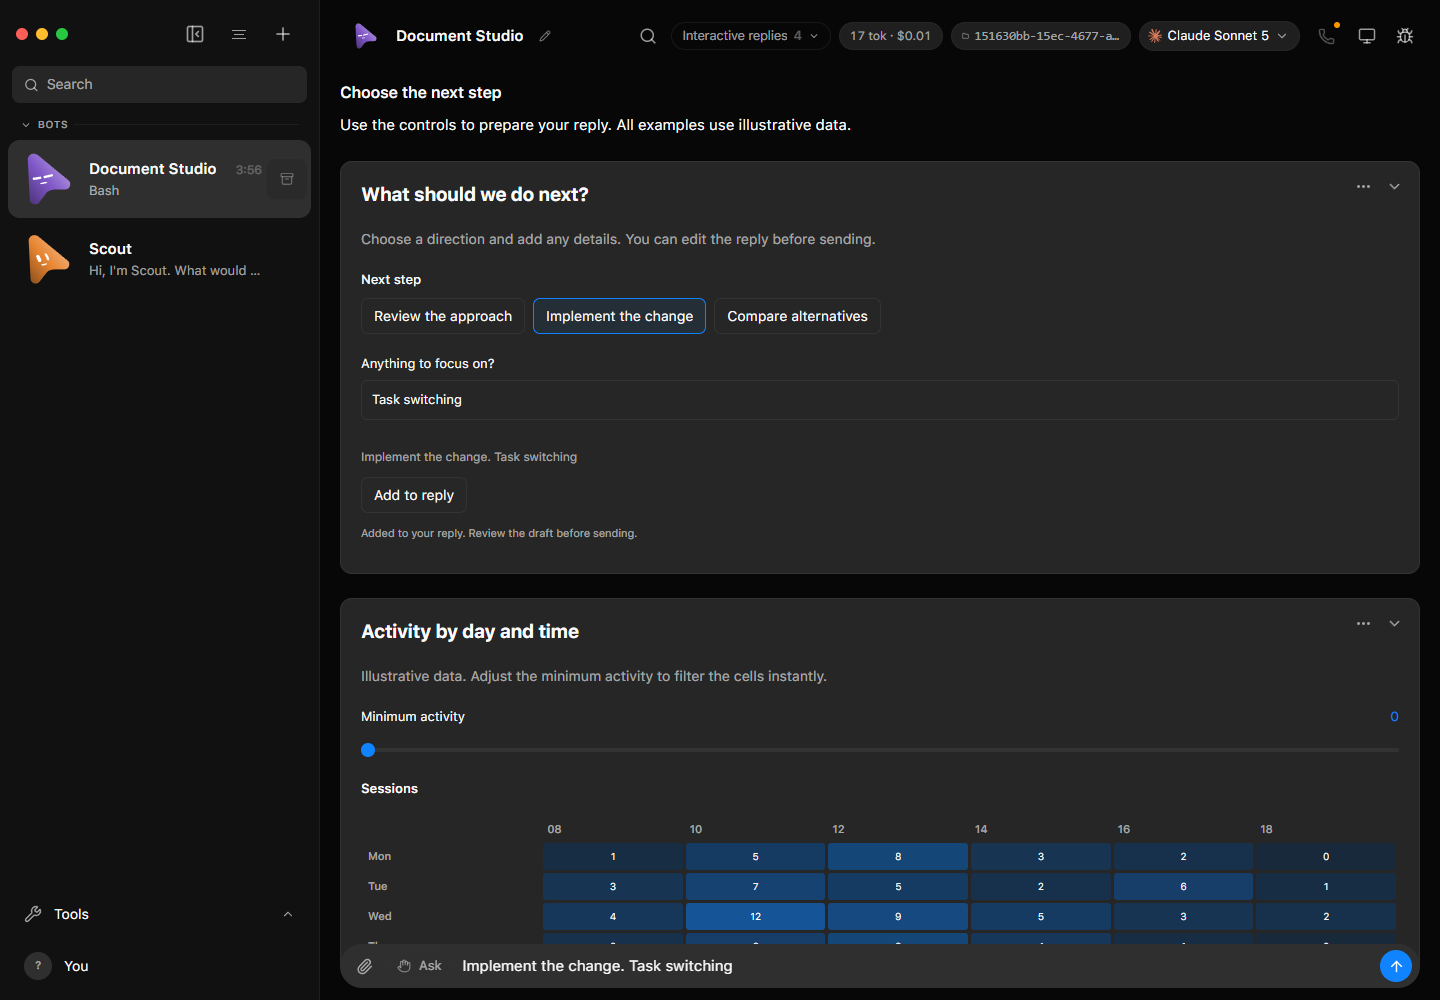
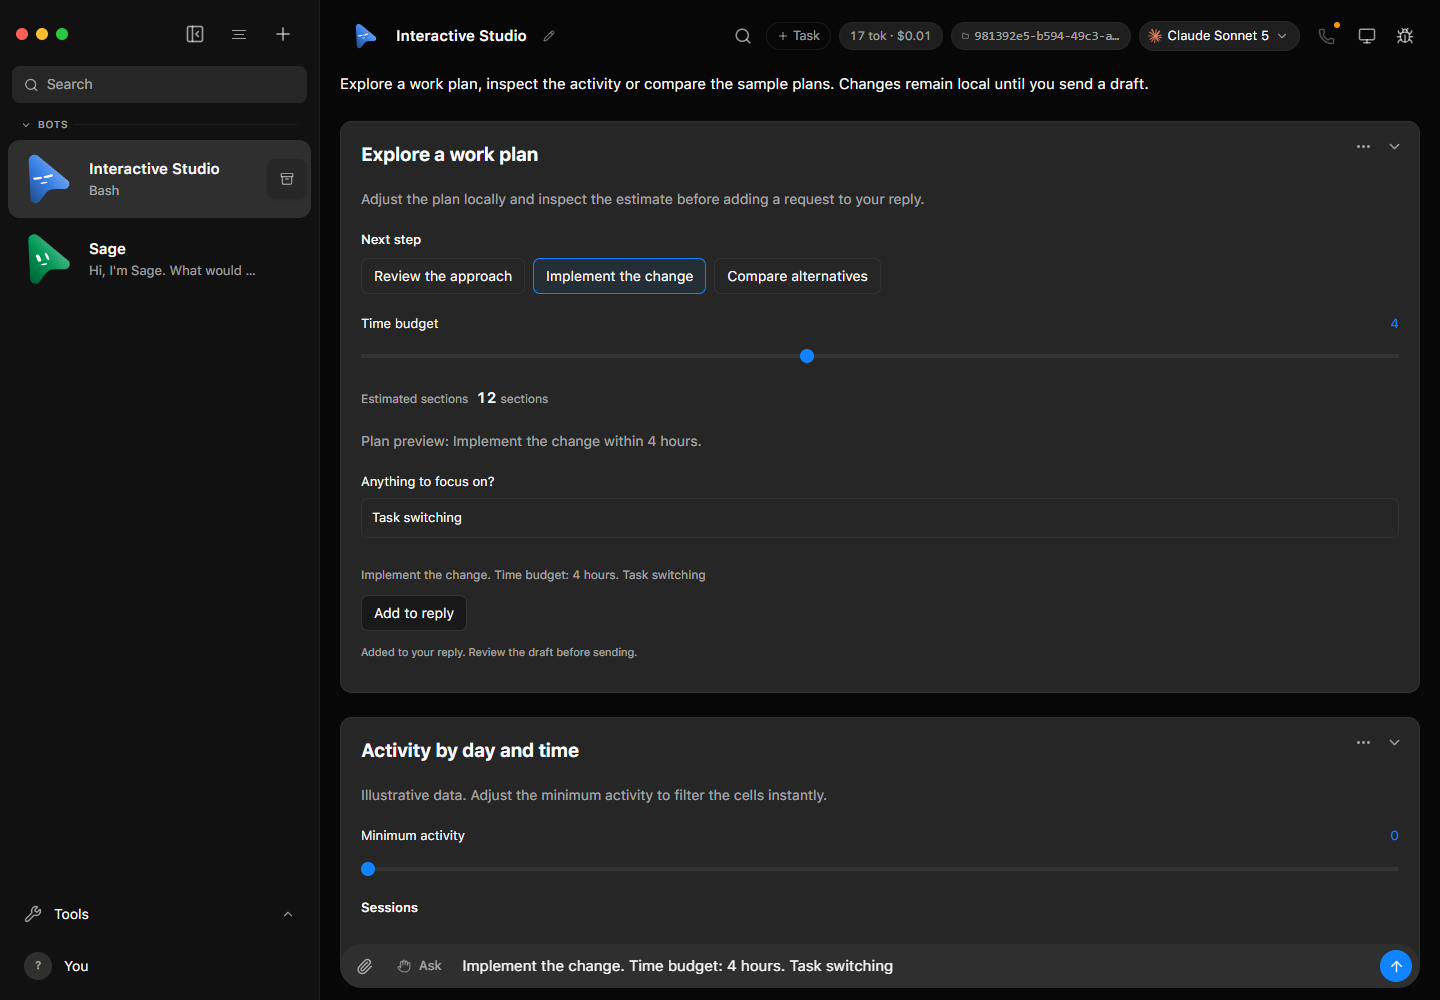
Prefer native questions and use interactive replies for local exploration

diff --git a/shared/interactive-reply.ts b/shared/interactive-reply.ts
@@ -50,7 +50,8 @@ export function validateInteractiveSource(source: string): string | null {
   return null;
 }
 
-export const INTERACTIVE_REPLY_PROMPT = `\n\nInteractive replies (desktop/web): when choices, comparisons, a diagram, or a small local tool would help, compose a tailored UI with OpenUI Lang inside a fenced openmaus-ui block. Also give a short useful plain-text summary outside the block for other clients. Do not force a visualization into simple answers. This is a composable engine, not a collection of fixed layouts.
+export const INTERACTIVE_REPLY_PROMPT = `\n\nInteractive replies (desktop/web): OpenMaus already has onboarding choices, native questions, and approval cards. Choose the existing interaction first. If you need an answer to continue, use the engine's native question tool when available (for example ask_user); otherwise ask a concise question in normal chat. Do not recreate that question as an openmaus-ui form or show both interfaces for the same decision. Permissions, credentials, profile/routine/skill confirmations must use their existing native tools and cards; an interactive block cannot grant approval or answer a pending request.
+Use an openmaus-ui block for local exploration: linked controls that update a preview, calculation, comparison, chart, diagram, or other useful result before the person decides what to send. A standalone question or list of reply buttons does not need OpenUI. When the user explicitly requests a local interactive tool, compose it from the catalog below. Also give a short useful plain-text summary outside the block for other clients. This is a composable engine, not a collection of fixed layouts.
 Use declarations like root = Stack([title, choices, result]); each declaration ends with a semicolon. Strings are JSON strings. Declare mutable state as $choice = "A"; bind it directly to a control's value. Other props can use $state, arithmetic + - * /, comparisons, ternaries, and builtins @If(condition, yes, no), @Sum(array), @Count(array), @Round(number, decimals). Reference declared components in containers, and combine freely. No JavaScript, HTML, CSS, URLs, Query, Mutation, actions or tool calls. All data must be inline. Max 32 KiB, 64 declarations, nesting 20. Labels and explanatory copy use the user's language.
 Component positional signatures (all arguments required):
 Stack(children[]); Grid(children[]); Card(title, children[]); Text(text); Heading(text); Details(title, children[]);

diff --git a/shared/interactive-examples.ts b/shared/interactive-examples.ts
@@ -1,7 +1,8 @@
 /** Portable, illustrative fixtures: composed from the same public catalog. */
 export const INTERACTIVE_CHOICE_EXAMPLE = `$depth = "Review the approach";
 $notes = "";
-root = Card("What should we do next?", [Text("Choose a direction and add any details. You can edit the reply before sending."), Choice("Next step", ["Review the approach", "Implement the change", "Compare alternatives"], $depth), Input("Anything to focus on?", $notes), Draft($depth + ". " + $notes)]);`;
+$hours = 2;
+root = Card("Explore a work plan", [Text("Adjust the plan locally and inspect the estimate before adding a request to your reply."), Choice("Next step", ["Review the approach", "Implement the change", "Compare alternatives"], $depth), Slider("Time budget", 1, 8, 1, $hours), Metric("Estimated sections", $hours * 3, "sections"), Text("Plan preview: " + $depth + " within " + $hours + " hours."), Input("Anything to focus on?", $notes), Draft($depth + ". Time budget: " + $hours + " hours. " + $notes)]);`;
 
 export const INTERACTIVE_HEATMAP_EXAMPLE = `$threshold = 0;
 root = Card("Activity by day and time", [Text("Illustrative data. Adjust the minimum activity to filter the cells instantly."), Slider("Minimum activity", 0, 12, 1, $threshold), Heatmap("Sessions", ["Mon", "Tue", "Wed", "Thu", "Fri"], ["08", "10", "12", "14", "16", "18"], [[1,5,8,3,2,0],[3,7,5,2,6,1],[4,12,9,5,3,2],[2,6,8,4,1,0],[1,4,3,2,0,0]], $threshold), Chart("Daily totals", ["Mon", "Tue", "Wed", "Thu", "Fri"], [{name:"Sessions", values:[19,24,35,21,10]}], "bar")]);`;

diff --git a/scripts/interactive-reply-fixture.ts b/scripts/interactive-reply-fixture.ts
@@ -21,7 +21,7 @@ try {
   if (process.argv.includes("--include-errors"))
     examples.push('root = UnknownComponent("Unsupported content");');
   const reply =
-    "Choose a next step, inspect the activity or compare the sample plans. Changes remain local until you send a draft.\n\n" +
+    "Explore a work plan, inspect the activity or compare the sample plans. Changes remain local until you send a draft.\n\n" +
     examples.map((source) => `\`\`\`openmaus-ui\n${source}\n\`\`\``).join("\n\n");
   const wrapper = join(dataDir, "interactive-fake.mjs");
   writeFileSync(
@@ -39,7 +39,7 @@ try {
     "--bot",
     created.bot.id,
     "--text",
-    "Help me choose the next step and explore the sample data.",
+    "Build a local work-plan explorer with a time budget and estimate, and let me explore the sample data.",
   );
   const result = await call("wait", "--bot", created.bot.id, "--timeout", "30");
   console.log(JSON.stringify({ ...fixture.info, botId: created.bot.id, result }, null, 2));

diff --git a/docs/verification/interactive-replies.md b/docs/verification/interactive-replies.md
@@ -10,6 +10,22 @@ replaced.
 
 ## Architecture decision
 
+### Existing cards and interaction routing
+
+OpenMaus already renders onboarding choices through `OptionCard` and native
+provider questions/approvals through its request flow. This contribution does not
+introduce those capabilities or replace their request IDs, resume behavior, secure
+credential entry, or confirmation boundaries.
+
+The common system prompt prefers those existing paths when the agent needs an
+answer to continue. Without a native question tool it asks in normal chat. OpenUI
+is for local exploration with derived results, such as adjusting a time budget
+and inspecting an estimate, or filtering a chart. A plain question with answer
+buttons does not need a generated block. Never duplicate a pending native question
+or represent permission/credential/profile/routine/skill confirmation through
+OpenUI. A local draft remains an unsent composer draft, not a response to a brokered
+request. The work-plan fixture demonstrates linked controls, preview and estimate.
+
 - [Thesys OpenUI](https://github.com/thesysdev/openui): use the actual MIT-licensed
   `@openuidev/react-lang` and `@openuidev/lang-core` packages, pinned to 0.2.15.
   Its reactive bindings, expression interpreter and component catalog support
@@ -115,7 +131,7 @@ The focused checks completed on the feature branch:
   midnight, `light` for atelier, and `dark` after returning to midnight; the
   heatmap at slider 8 has four active cells.
 
-The before/after evidence uses the same fixture state. The upstream comparison
+The original before/after evidence used the same fixture state. The upstream comparison
 at `http://127.0.0.1:5399` leaves the fenced source visible in the transcript;
 the feature build at `http://127.0.0.1:5599` renders the controls and preserves
 the draft in the composer. The checked-in screenshots are:
@@ -130,3 +146,17 @@ the draft in the composer. The checked-in screenshots are:
 
 The fixture is a deterministic renderer and safety check; it does not replace
 paid-provider coverage or the separate packaged-desktop integration gate.
+
+### Native interaction coexistence follow-up (2026-09-07)
+
+The prompt now routes blocking questions and confirmations to the existing native
+interaction paths. The work-plan example demonstrates a local calculation instead
+of a standalone question. The six focused suites, including the existing Claude
+native question/request tests, passed 123 tests with 2 platform skips. The production
+build passed. A fresh isolated fixture at `http://127.0.0.1:22482` (PID 282504)
+verified that 4 hours produces 12 estimated sections and updates the plan preview;
+adding the draft produces no POST. Choice/input persistence, heatmap filtering,
+comparison totals, steps, themes, mobile layout and sandbox boundaries also passed.
+The choices, actions, focus, light and mobile screenshots now show this work-plan
+fixture. The upstream-source and heatmap images retain their original evidence.
+These scripted checks do not prove that every provider will follow the guidance.
